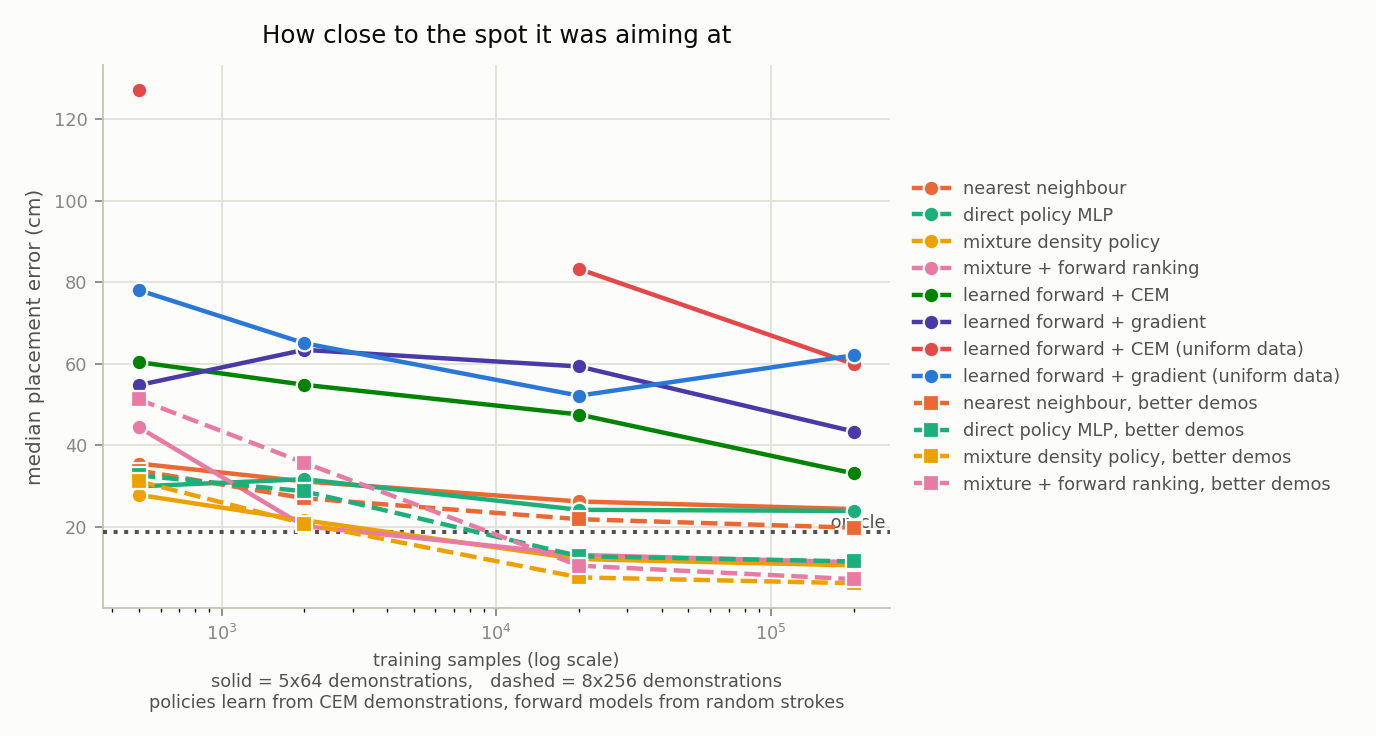
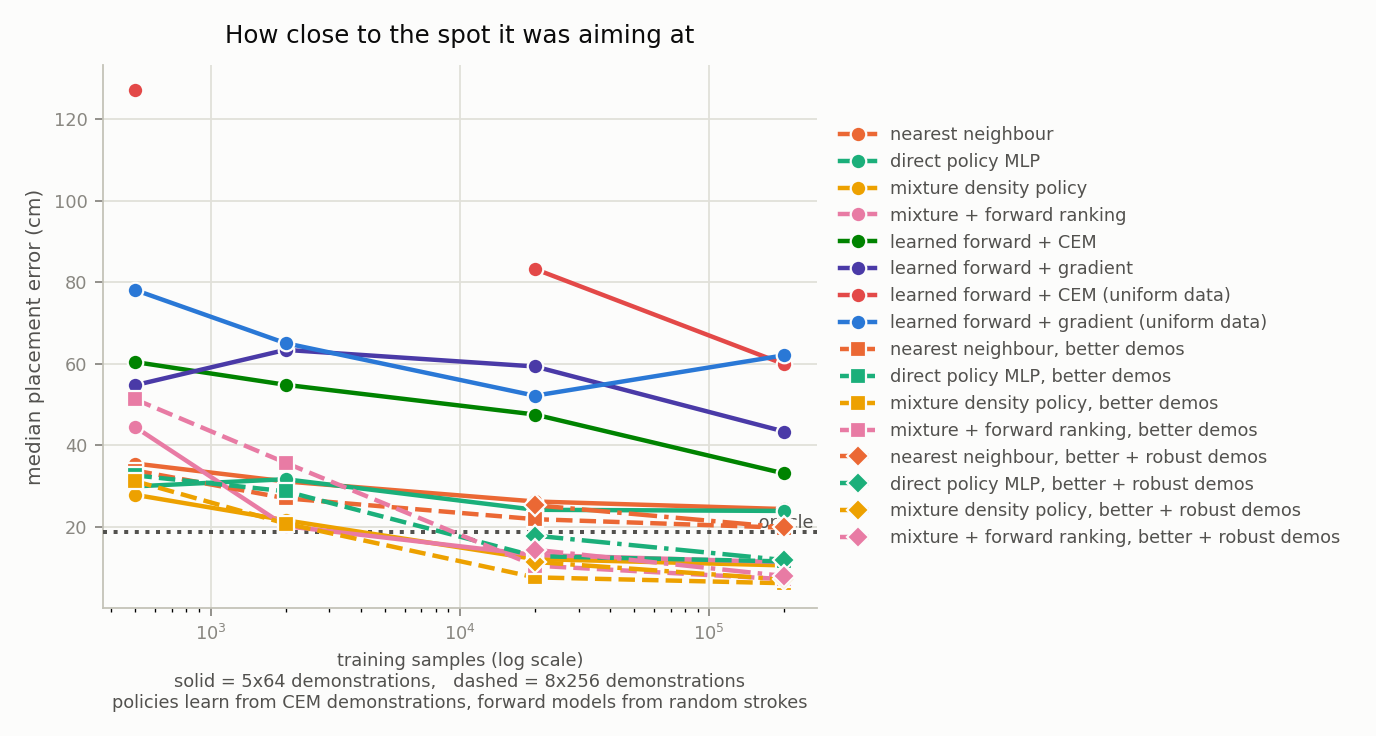
Run the robustness pass, and record what it and the weight sweep answered
--robust-k has existed since the solver was written and every row of
results.csv had it at 0. Running it settles the trade-off this study had
been leaving open.

At 200k demonstrations it buys back most of what accurate demonstrations
cost: the mixture policy goes 95.3% -> 97.7% success for 9 mm of placement,
the direct MLP 80.7% -> 85.2% for 3 mm. It also undoes the sidespin
regression, 63.7 -> 38.3 rad/s, which fits the same explanation -- that
regression was the optimiser spending spin once placement was nearly
exhausted, and a stroke bought that way is the fragile kind the pass
rejects.

At 20k it does the opposite, 91.8% -> 90.9% with placement from 7.5 to
11.3 cm. Re-ranking narrows the effective candidate set, which is
over-conservative when demonstrations are already sparse. It is a tool for
where data is no longer the binding constraint.

The weight frontier is a clean L and the shipped GOAL_WEIGHTS sits on its
steep arm: [1,1,.8,1,1] takes spin error 59.4 -> 23.8 rad/s for 1.8 cm of
placement. Every "the model cannot do spin" reading in this study is really
a statement about that choice.

diff --git a/README.md b/README.md
@@ -211,9 +211,14 @@ mixed set alone is 140,000 single-threaded solves for data no policy ever
 reads. `--demo-frac 1.0` breaks the link and makes `--sizes` mean
 demonstrations directly.
 
+`--robust-k 8` picks demonstrations that survive being executed imperfectly
+rather than the nominally best ones. It costs about 14% more generation time
+and is worth it above roughly 20,000 demonstrations -- see below.
+
 Demonstrations are generated across `--workers` processes (default: cores
 minus two), which is the only parallel step and the slowest one: 200,000 at
-the 8x256 budget takes about fifteen minutes on sixteen cores.
+the 8x256 budget takes about fifteen minutes on sixteen cores. That pins
+every core at 100%, so on a laptop `--workers 6` is a kinder default.
 
 ### The task
 
@@ -312,6 +317,53 @@ trade-off rather than a shortage of data: at 200k the safe teacher still
 lands 3.2 points more often, and the accurate teacher is still worth
 **1.8x** the shot quality (goal 0.161 against 0.297). Which one you want
 depends on whether a miss costs you more than a sloppy hit.
+
+**Most of that trade-off can be bought back.** If accurate demonstrations
+fail more often because they sit on the edge of feasibility, then choosing
+demonstrations that survive being executed imperfectly should recover the
+margin without giving up the accuracy. `--robust-k` does exactly that -- it
+re-ranks the solver's final candidates by how well they hold up under
+perturbation -- and it had never been run:
+
+| 200k demonstrations | success | placement | goal error | sidespin |
+|---|---|---|---|---|
+| mixture policy | 95.3% | **6.1 cm** | **0.161** | 63.7 |
+| mixture policy, robust | **97.7%** | 7.0 cm | 0.170 | **38.3** |
+| direct MLP | 80.7% | **11.5 cm** | **0.158** | 36.5 |
+| direct MLP, robust | **85.2%** | 11.8 cm | 0.177 | 43.8 |
+
++2.4 and +4.5 points of success for 9 mm and 3 mm of placement. It also
+undoes the sidespin regression above -- 63.7 -> 38.3, better than the 20k
+model managed -- which fits the same explanation: that regression was the
+optimiser spending spin once placement was nearly exhausted, and a stroke
+bought that way is exactly the fragile kind the robustness pass rejects.
+
+**But it is harmful on small data.** At 20,000 demonstrations it goes the
+other way: the mixture policy drops 91.8% -> 90.9% and its placement nearly
+halves in quality, 7.5 -> 11.3 cm. Re-ranking narrows the effective
+candidate set, and when the demonstrations are already sparse that is
+over-conservative rather than safer. `--robust-k` is a tool for the regime
+where data is no longer the binding constraint.
+
+**The weights, not the data, decide where the last decade of training
+goes.** `sweep_weights.py` runs the reference solver under several
+weightings of the same problems, so the frontier is measured on the true
+physics with no learning in the way:
+
+| weighting | placement | spin |
+|---|---|---|
+| placement only | **4.0 cm** | 181.6 |
+| placement heavy | 7.1 cm | 113.7 |
+| **default (shipped)** | 10.8 cm | 59.4 |
+| balanced | 12.6 cm | **23.8** |
+| spin heavy | 14.0 cm | **14.5** |
+| spin only | 68.3 cm | 16.1 |
+
+It is a clean L, and `GOAL_WEIGHTS` sits on its steep arm: moving from
+`[1, 1, .6, .5, .5]` to `[1, 1, .8, 1, 1]` takes spin error 59.4 -> 23.8
+rad/s for 1.8 cm of placement. Every "the model cannot do spin" reading in
+this study is really a statement about that choice. Nothing here retrains a
+policy under different weights -- that is still open.
 
 **The best model in the study is the mixture policy on better
 demonstrations**: 95.3% success, **6.1 cm** placement and 0.161 weighted goal
@@ -507,9 +559,10 @@ normal is unconstrained, so an arm can use it freely.
   the exact restitution and friction constants
 * DAgger-style iteration on the forward model: train, run the optimiser,
   label the actions it chose with the true physics, retrain
-* A `GOAL_WEIGHTS` sweep. The sidespin regression above shows the weights,
-  not the data, decide what the last decade of training buys -- and they have
-  never been varied
+* Train policies under different `GOAL_WEIGHTS`. `sweep_weights.py` maps the
+  frontier for the *solver*, but no policy has ever been trained anywhere
+  except at the shipped weighting, so the learned half of that curve is
+  unmeasured
 * Raise the demonstration budget again. Every policy is still bounded by its
   teacher, and 10 x 512 demonstrations have never been generated at scale
 * Reconcile `strokes.csv` with the simulator. Only three human strokes have
